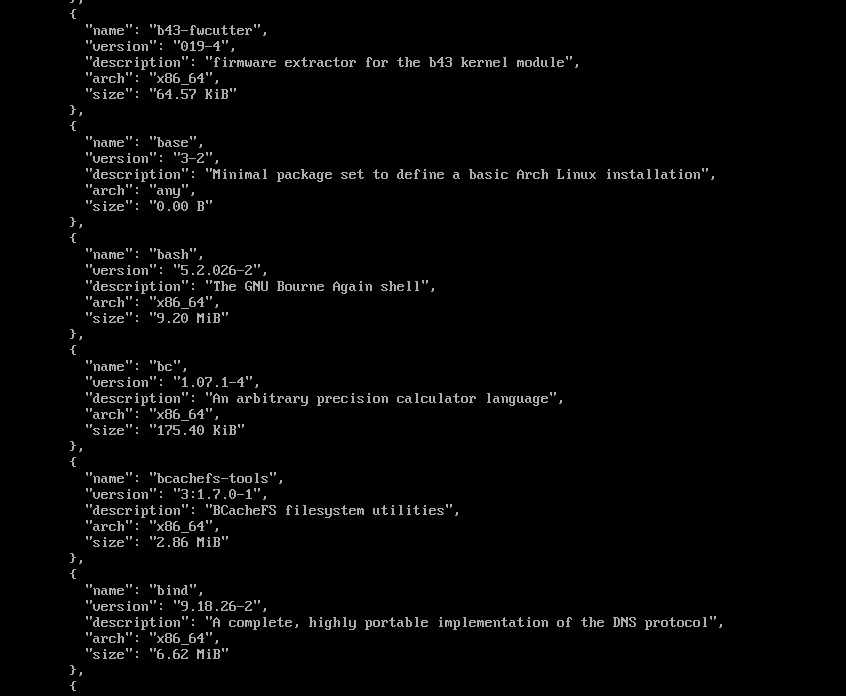
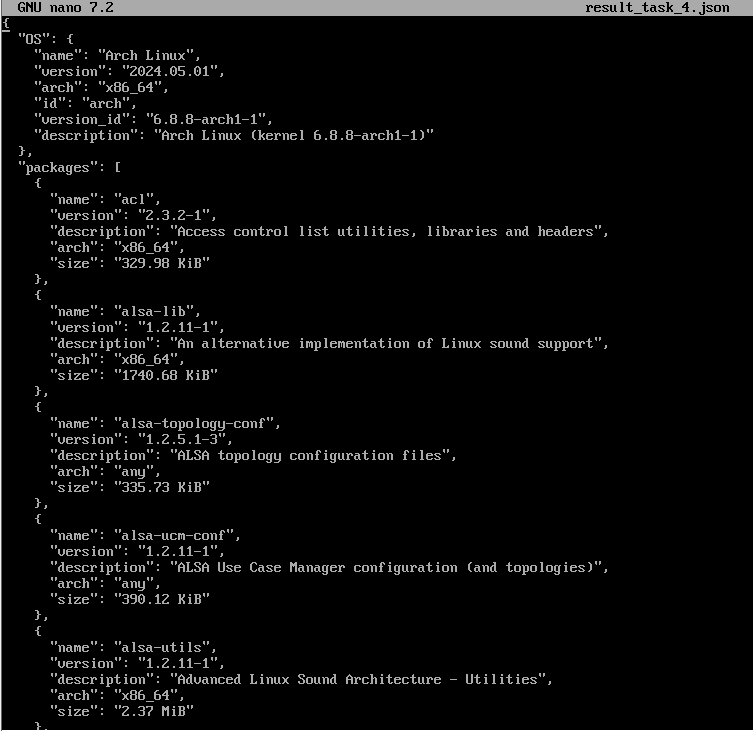
4

diff --git a/task2.py b/task2.py
@@ -208,7 +208,7 @@ for dep in dependencies:
             "url": dep["url"],
             "purl": dep["purl"],
             "vulnerabilities": vulns,
-            "secure_version": calculate_secure_version(vulns)
+            "secure_version": calculate_secure_version(nodes)
         }
 
         results.append(result)

diff --git a/README.md b/README.md
@@ -1,0 +1,226 @@
+# запуск
+
+# отчет
+
+## 1
+
+В ходе выполнения задания был проведён анализ структуры проекта Next.js с целью определения всех файлов, содержащих зависимости различных экосистем. Для работы использовался язык программирования Python и стандартные библиотеки os, json, re и collections. Основной задачей являлся автоматический обход репозитория, поиск файлов зависимостей, извлечение информации о пакетах и формирование единого итогового файла result_task_1.json.
+
+В процессе работы был реализован универсальный скрипт, выполняющий рекурсивный обход каталогов проекта с исключением служебных директорий, таких как node_modules, .git, .next, target и vendor, поскольку они содержат либо временные данные, либо уже установленные зависимости, не относящиеся к исходным конфигурационным файлам проекта. После обхода выполнялся поиск файлов различных экосистем: package.json для npm, Cargo.toml для Cargo, requirements.txt для PyPI, pom.xml для Maven, Gemfile.lock для RubyGems, composer.json для Composer и go.mod для Go Modules.
+
+Для каждой экосистемы был реализован отдельный парсер, учитывающий особенности формата файлов. При обработке package.json извлекались зависимости из разделов dependencies, devDependencies, peerDependencies и optionalDependencies. Для файлов Cargo.toml использовались регулярные выражения для обработки как простых зависимостей, так и зависимостей в формате таблиц TOML. В случае requirements.txt производился анализ строк формата package==version. Для Maven-зависимостей из pom.xml выполнялся поиск тегов <dependency>, <groupId>, <artifactId> и <version>. Аналогичным образом обрабатывались зависимости из RubyGems, Composer и Go Modules.
+
+После извлечения зависимостей выполнялась нормализация версий пакетов. Из строк версий удалялись специальные префиксы, такие как ^, ~, >=, <=, workspace: и другие, поскольку они не являются частью фактического номера версии. Далее для каждой зависимости формировались поля name, version, ecosystem, url и purl. Ссылки на страницы пакетов генерировались автоматически на основе шаблонов соответствующих экосистем, например для npm использовался адрес https://www.npmjs.com/package/<package>, а для PyPI — https://pypi.org/project/<package>. Также автоматически формировалась строка Package URL в формате pkg:<ecosystem>/<name>@<version>.
+
+Дополнительно была реализована система устранения дубликатов зависимостей. Для этого использовалось множество seen, в котором сохранялась комбинация имени пакета, версии и экосистемы. Это позволило исключить повторное добавление одинаковых зависимостей при их обнаружении в нескольких файлах проекта.
+
+Одной из основных сложностей при выполнении задания стала неоднородность форматов хранения зависимостей между различными экосистемами. Некоторые файлы имеют строгий JSON-формат, а другие используют TOML, XML или собственные текстовые структуры. Также возникли сложности с обработкой нестандартных записей версий и зависимостей, содержащих диапазоны версий, workspace-ссылки или вложенные параметры. Для решения этих проблем были использованы регулярные выражения и дополнительная нормализация строк версий.
+
+Ещё одной сложностью являлась необходимость корректного формирования ссылок и purl-идентификаторов для разных экосистем. Для решения данной задачи была создана единая конфигурационная структура ECOSYSTEM_INFO, содержащая шаблоны URL и purl для каждой поддерживаемой платформы. Это позволило унифицировать процесс генерации итоговых данных.
+
+Результатом выполнения задания стал файл result_task_1.json, содержащий полный список уникальных зависимостей проекта в едином JSON-формате. Также в ходе выполнения работы была собрана статистика по количеству пакетов в каждой экосистеме, что позволило получить сводную информацию о структуре зависимостей проекта и распределении используемых технологий.
+
+```json
+ {
+    "name": "@babel/eslint-parser",
+    "version": "7.15.0",
+    "ecosystem": "npm",
+    "url": "https://www.npmjs.com/package/@babel/eslint-parser",
+    "purl": "pkg:npm/@babel/eslint-parser@7.15.0"
+  },
+  {
+    "name": "@babel/plugin-proposal-object-rest-spread",
+    "version": "7.14.7",
+    "ecosystem": "npm",
+    "url": "https://www.npmjs.com/package/@babel/plugin-proposal-object-rest-spread",
+    "purl": "pkg:npm/@babel/plugin-proposal-object-rest-spread@7.14.7"
+  },
+  {
+    "name": "@babel/preset-flow",
+    "version": "7.14.5",
+    "ecosystem": "npm",
+    "url": "https://www.npmjs.com/package/@babel/preset-flow",
+    "purl": "pkg:npm/@babel/preset-flow@7.14.5"
+  },
+  {
+    "name": "@babel/preset-react",
+    "version": "7.14.5",
+    "ecosystem": "npm",
+    "url": "https://www.npmjs.com/package/@babel/preset-react",
+    "purl": "pkg:npm/@babel/preset-react@7.14.5"
+  },
+  ...
+```
+
+## 2
+
+В рамках выполнения второго задания был реализован автоматизированный анализ зависимостей проекта на наличие известных уязвимостей с использованием GraphQL API сервиса GitHub и базы GitHub Security Advisory. В качестве входных данных использовался ранее сформированный файл result_task_1.json, содержащий список зависимостей проекта с указанием названия пакета, версии, экосистемы, URL и Package URL.
+
+Для выполнения задания использовался язык программирования Python и библиотеки requests, json и semantic_version. Библиотека requests применялась для взаимодействия с GraphQL API GitHub, а библиотека semantic_version использовалась для проверки принадлежности версии пакета диапазону уязвимых версий согласно спецификации Semantic Versioning.
+
+В ходе работы был реализован GraphQL-запрос к API GitHub, который выполнял поиск уязвимостей по названию пакета и экосистеме. Для корректного взаимодействия с API была создана таблица соответствия локальных названий экосистем внутренним идентификаторам GitHub Security Advisory. Например, экосистема npm преобразовывалась в NPM, cargo — в RUST, а pypi — в PIP. Это позволило унифицировать обработку зависимостей различных платформ.
+
+После отправки запроса к API выполнялась обработка полученного ответа. Для каждой найденной уязвимости извлекались диапазон уязвимых версий, идентификатор GHSA, уровень критичности, ссылка на advisory и первая исправленная версия. Далее выполнялась проверка того, относится ли версия анализируемого пакета к диапазону уязвимых версий. Для этого использовалась библиотека semantic_version и объект NpmSpec, поддерживающий синтаксис semver-диапазонов.
+
+Одной из основных проблем при реализации задания стала несовместимость форматов диапазонов версий, возвращаемых GitHub Security Advisory, с синтаксисом библиотеки semantic_version. В ответах API условия диапазонов могли содержать пробелы между операторами и версиями, например < 0.7.0, либо несколько условий через пробел, например >=1.0.0 <2.0.0. Для решения данной проблемы была реализована функция normalize_range, которая преобразовывала диапазоны к корректному формату библиотеки semantic_version. В частности, удалялись лишние пробелы после операторов сравнения и заменялись разделители условий на запятые.
+
+Дополнительной сложностью являлась обработка версий пакетов, содержащих нестандартные обозначения. Некоторые версии включали префиксы, дополнительные суффиксы или неполные номера версий. Для решения этой проблемы использовалась функция Version.coerce, позволяющая автоматически приводить версии к корректному формату semantic versioning.
+
+После определения списка уязвимостей для каждой зависимости выполнялся расчёт безопасной версии пакета. Для этого анализировались все значения firstPatchedVersion, полученные из advisory-записей, после чего выбиралась максимальная версия, устраняющая все обнаруженные уязвимости. Реализация данной логики позволила автоматически определить минимальную безопасную версию зависимости, которая не входит ни в один уязвимый диапазон.
+
+Итогом выполнения задания стал файл result_task_2.json, содержащий расширенную информацию о зависимостях проекта и связанных с ними уязвимостях. Для каждой зависимости в файле присутствовали сведения о названии пакета, версии, экосистеме, URL, purl, списке применимых уязвимостей, уровнях критичности, диапазонах уязвимых версий, первых исправленных версиях и итоговой безопасной версии пакета. Это позволило получить централизованную информацию о состоянии безопасности зависимостей проекта и определить пакеты, требующие обновления.
+
+```json
+  {
+    "name": "next-intl",
+    "version": "1.0.1",
+    "ecosystem": "npm",
+    "url": "https://www.npmjs.com/package/next-intl",
+    "purl": "pkg:npm/next-intl@1.0.1",
+    "vulnerabilities": [
+      {
+        "name": "GHSA-4c35-wcg5-mm9h",
+        "severity": "MODERATE",
+        "vulnerable_range": "<= 4.9.1",
+        "first_patched_version": "4.9.2"
+      },
+      {
+        "name": "GHSA-8f24-v5vv-gm5j",
+        "severity": "MODERATE",
+        "vulnerable_range": "< 4.9.1",
+        "first_patched_version": "4.9.1"
+      }
+    ],
+    "secure_version": "4.9.2"
+  },
+```
+
+
+## 3
+
+В рамках выполнения третьего задания был проведён анализ состояния безопасности проекта на основе ранее сформированного файла result_task_2.json, содержащего сведения об уязвимостях зависимостей. Основной целью задания являлось формирование сводной таблицы уязвимых зависимостей с распределением уязвимостей по уровням критичности, определением безопасных версий и выработкой рекомендаций по устранению обнаруженных проблем безопасности.
+
+Для выполнения задания использовался язык программирования Python, а также библиотеки json, pandas и collections. Библиотека json использовалась для загрузки и обработки результатов предыдущего этапа, collections.defaultdict применялась для подсчёта количества уязвимостей по уровням критичности, а библиотека Pandas использовалась для формирования итоговой таблицы, её сортировки и экспорта в CSV-формат.
+
+В процессе работы для каждой зависимости выполнялся анализ массива vulnerabilities, содержащего найденные уязвимости. Каждая уязвимость классифицировалась по уровню критичности: critical, high, moderate, low и unknown. После этого вычислялось общее количество уязвимостей зависимости и определялось наличие исправленной безопасной версии. На основании этих данных формировалась итоговая запись таблицы.
+
+Особое внимание было уделено разработке логики автоматического формирования рекомендаций по устранению уязвимостей. В зависимости от уровня критичности и наличия исправленной версии система автоматически определяла стратегию реагирования. Для критических уязвимостей при наличии исправления рекомендовалось немедленное обновление зависимости, а при отсутствии исправления — рассмотрение замены пакета на альтернативный. Для уязвимостей высокого уровня критичности предлагалось срочное обновление либо мониторинг advisories при отсутствии исправлений. Для умеренных уязвимостей использовалась рекомендация планового обновления, а зависимости без уязвимостей помечались как не требующие действий.
+
+Одной из основных сложностей при выполнении задания стала необходимость корректной агрегации уязвимостей различных уровней критичности и формирования универсальной логики рекомендаций. Некоторые зависимости содержали одновременно несколько уязвимостей разных уровней, что требовало определения приоритетности. Для решения данной проблемы была реализована последовательная система проверки критичности, при которой рекомендации формировались на основе наиболее опасного уровня уязвимости, присутствующего у пакета.
+
+Дополнительной сложностью являлась обработка зависимостей, для которых отсутствовала безопасная версия. В таких случаях система должна была корректно определять отсутствие исправлений и формировать рекомендации по мониторингу advisories или поиску альтернативных решений. Для этого использовалась проверка поля secure_version и логический флаг has_fix.
+
+После формирования всех записей данные были преобразованы в объект DataFrame библиотеки Pandas и отсортированы по убыванию общего количества уязвимостей. Это позволило определить наиболее проблемные зависимости проекта и выделить пакеты, требующие первоочередного обновления. Итоговая таблица была сохранена в файл result_task_3.csv.
+
+Результатом выполнения задания стала структурированная аналитическая таблица, позволяющая оценить текущее состояние безопасности проекта, определить наиболее уязвимые зависимости, а также получить рекомендации по их обновлению или замене. Полученные данные могут использоваться для дальнейшего управления уязвимостями, планирования обновлений зависимостей и повышения общего уровня безопасности программного обеспечения.
+
+![](images/2.png)
+
+## 4
+
+В рамках выполнения четвёртого задания была реализована автоматизированная система инвентаризации операционной системы и установленных пакетов дистрибутива. Основной целью работы являлось получение полной информации о системе непосредственно из среды выполнения без использования хардкода или заранее подготовленных данных. Результатом выполнения задания стал файл result_task_4.json, содержащий сведения об операционной системе и перечень установленных пакетов.
+
+Для выполнения задания использовался язык программирования Python, а также стандартные библиотеки json, os, platform и subprocess. Библиотека os использовалась для проверки наличия системных файлов, platform — для получения архитектуры системы и версии ядра, subprocess — для выполнения системных команд пакетного менеджера, а json — для сохранения итоговых результатов в структурированном формате.
+
+На первом этапе работы выполнялся анализ информации об операционной системе. Для этого использовался системный файл /etc/os-release, содержащий метаданные дистрибутива Linux. Скрипт автоматически считывал значения полей NAME, ID, PRETTY_NAME, VERSION_ID и других доступных параметров. Дополнительно при помощи библиотеки platform определялась архитектура процессора и версия ядра операционной системы. Если в системе отсутствовало поле описания, оно формировалось автоматически путём объединения имени системы и версии ядра.
+
+После получения информации об операционной системе выполнялась инвентаризация установленных пакетов. В качестве дистрибутива использовался Arch Linux, поэтому для получения списка пакетов использовался пакетный менеджер pacman. Скрипт запускал системную команду pacman -Qi, возвращающую подробную информацию обо всех установленных пакетах. Полученный вывод разбивался на отдельные блоки, каждый из которых соответствовал одному пакету.
+
+Для каждого пакета извлекались основные параметры: имя пакета, версия, архитектура, описание и размер установленного пакета. Особое внимание уделялось обработке описаний. Поскольку описания пакетов могли содержать несколько предложений или длинные текстовые блоки, реализовывалось выделение только первого предложения, что позволяло сделать итоговый JSON-файл более компактным и структурированным.
+
+Одной из основных сложностей при выполнении задания стала неоднородность форматов вывода системных утилит. Некоторые пакеты могли не содержать описания или информации о размере, поэтому код должен был корректно обрабатывать отсутствующие поля и не вызывать ошибок при формировании итогового JSON-документа. Для решения этой проблемы использовались проверки существования значений перед их добавлением в структуру результата.
+
+Дополнительной сложностью являлось получение универсальной информации об операционной системе без привязки к конкретному дистрибутиву. В некоторых системах поля /etc/os-release могут отсутствовать или называться иначе. Для повышения устойчивости решения использовались резервные механизмы получения информации через библиотеку platform, позволяющие корректно формировать описание системы даже при отсутствии части системных данных.
+
+В результате выполнения задания был сформирован файл result_task_4.json, содержащий полную информацию об операционной системе и установленном программном обеспечении. Полученные данные могут использоваться для аудита системы, анализа состава программного окружения и дальнейшего контроля безопасности инфраструктуры.
+
+В используемом дистрибутиве применяется система версионирования пакетов, характерная для пакетного менеджера pacman. Версия пакета обычно состоит из нескольких частей: основной версии программы, номера релиза пакета и иногда эпохи версии. Например, запись 1.2.3-4 означает, что используется версия программы 1.2.3, а число после дефиса обозначает номер сборки или ревизии пакета в репозитории дистрибутива. Если используется эпоха, версия может иметь вид 2:1.2.3-4, где число до двоеточия указывает приоритет версии при сравнении.
+
+Сравнение версий выполняется последовательно по компонентам. Например, версия 1.10.0 считается новее версии 1.9.9, несмотря на то что при строковом сравнении результат был бы обратным. Аналогично версия 1.2.3-5 считается новее 1.2.3-4, так как отличается номер ревизии пакета. При использовании эпохи версия 2:1.0.0-1 будет считаться новее 1:5.0.0-1, поскольку эпоха имеет более высокий приоритет, чем остальные компоненты версии.
+
+Подобная схема версионирования позволяет дистрибутиву гибко управлять обновлениями пакетов, учитывать исправления сборок и корректно сравнивать версии программного обеспечения даже в сложных случаях миграции между ветками разработки или изменении схемы нумерации версий.
+
+![](images/1.png)
+
+## 5 
+
+В рамках выполнения пятого задания был проведён анализ состояния безопасности операционной системы до и после глобального обновления пакетов с использованием инструмента OSV-Scanner и формата CycloneDX. Основной целью задания являлось проведение инвентаризации системы, поиск известных уязвимостей, сравнение состояния системы до и после обновления, а также оценка качества ранее реализованной инвентаризации пакетов.
+
+Для выполнения задания использовался язык программирования Python, а также библиотеки json, collections и packaging.version. В качестве источников данных использовались SBOM-файлы sbom_before.json и sbom_after.json, сформированные в формате CycloneDX, а также результаты сканирования уязвимостей osv_before.json и osv_after.json, полученные при помощи OSV-Scanner.
+
+На первом этапе работы выполнялась инвентаризация системы до обновления пакетов. Для формирования Software Bill of Materials использовался формат CycloneDX, содержащий перечень установленных компонентов, их версии, Package URL, тип пакета и уникальные идентификаторы. После этого выполнялось сканирование SBOM-файла с помощью OSV-Scanner, который анализировал версии пакетов и сопоставлял их с базой известных уязвимостей.
+
+```
+cdxgen -t os -o sbom_before.json
+osv-scanner scan --sbom=sbom_before.json --format json > osv_before.json
+```
+
+Далее выполнялось глобальное обновление системы средствами пакетного менеджера дистрибутива. Поскольку использовался Arch Linux, обновление выполнялось при помощи команды `pacman -Syu`, обеспечивающей синхронизацию репозиториев и обновление всех установленных пакетов до актуальных версий. После завершения обновления повторно формировался SBOM-файл и запускалось повторное сканирование OSV-Scanner.
+
+```
+cdxgen -t os -o sbom_after.json
+osv-scanner scan --sbom=sbom_after.json --format json > osv_after.json
+```
+
+Для анализа изменений был реализован отдельный Python-скрипт, автоматически сравнивающий версии пакетов и обнаруженные уязвимости между состояниями системы до и после обновления. В ходе работы выполнялось извлечение списка пакетов из SBOM-файлов и формирование словарей, содержащих версии, purl-идентификаторы и дополнительную информацию о пакетах. Аналогично из результатов OSV-Scanner извлекались сведения об уязвимостях, включая идентификаторы уязвимостей, описание и уровень критичности.
+
+Одной из основных сложностей при выполнении задания стало различие структуры данных SBOM-файлов и результатов OSV-Scanner. Формат CycloneDX использует вложенные структуры компонентов, а OSV-Scanner хранит уязвимости отдельно от информации о пакетах. Для решения данной проблемы были реализованы функции extract_sbom_packages и extract_vulnerabilities, автоматически преобразующие данные в унифицированные структуры для последующего сравнения.
+
+Дополнительной сложностью являлось корректное сравнение уязвимостей между двумя состояниями системы. Некоторые уязвимости могли исчезать после обновления, а другие — появляться вследствие установки новых версий пакетов. Для анализа этих изменений использовалось сравнение множеств идентификаторов уязвимостей и связанных с ними пакетов. В результате удалось определить исправленные уязвимости, новые уязвимости и уязвимости, сохранившиеся после обновления.
+
+Также была реализована система статистического анализа уровней критичности уязвимостей. Для каждого состояния системы подсчитывалось количество уязвимостей различных уровней severity. Это позволило определить, насколько обновление системы повлияло на общий уровень безопасности программного окружения.
+
+В результате выполнения задания был сформирован файл result_task_5_analysis.json, содержащий подробный отчёт о различиях между состояниями системы до и после обновления. В отчёте присутствуют сведения о количестве пакетов, обновлённых компонентах, новых и удалённых пакетах, а также статистика по исправленным и вновь появившимся уязвимостям. К сожалению анализ osv_scanner не дал никаких результатов.
+
+```json
+{
+  "packages": {
+    "before_total": 379,
+    "after_total": 380,
+    "added": 6,
+    "removed": 5,
+    "updated": 5,
+    "unchanged": 369,
+    "updated_packages": [
+      {
+        "name": "kworker/1-1-events",
+        "before_version": "5960",
+        "after_version": "9998"
+      },
+      {
+        "name": "node-MainThread",
+        "before_version": "9866",
+        "after_version": "12955"
+      },
+      {
+        "name": "osqueryi-linux-",
+        "before_version": "9920",
+        "after_version": "13005"
+      },
+      {
+        "name": "systemd-userdbd",
+        "before_version": "455",
+        "after_version": "0"
+      },
+      {
+        "name": "systemd-userwor",
+        "before_version": "0",
+        "after_version": "12954"
+      }
+    ]
+  },
+  "vulnerabilities": {
+    "before_total_packages": 0,
+    "after_total_packages": 0,
+    "fixed_vulnerabilities": 0,
+    "new_vulnerabilities": 0,
+    "unchanged_vulnerabilities": 0,
+    "fixed_list": [],
+    "new_list": []
+  },
+  "severity": {
+    "before": {},
+    "after": {}
+  }
+}
+```